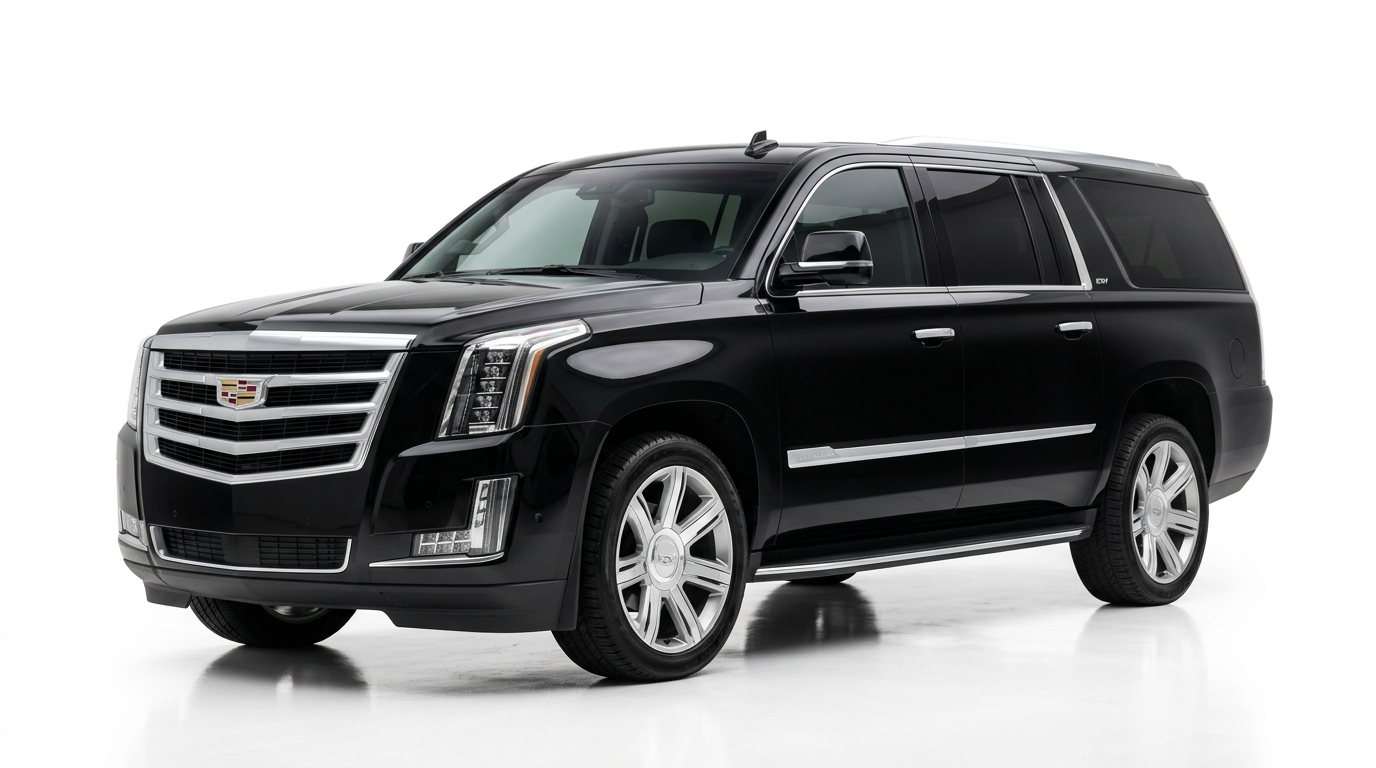
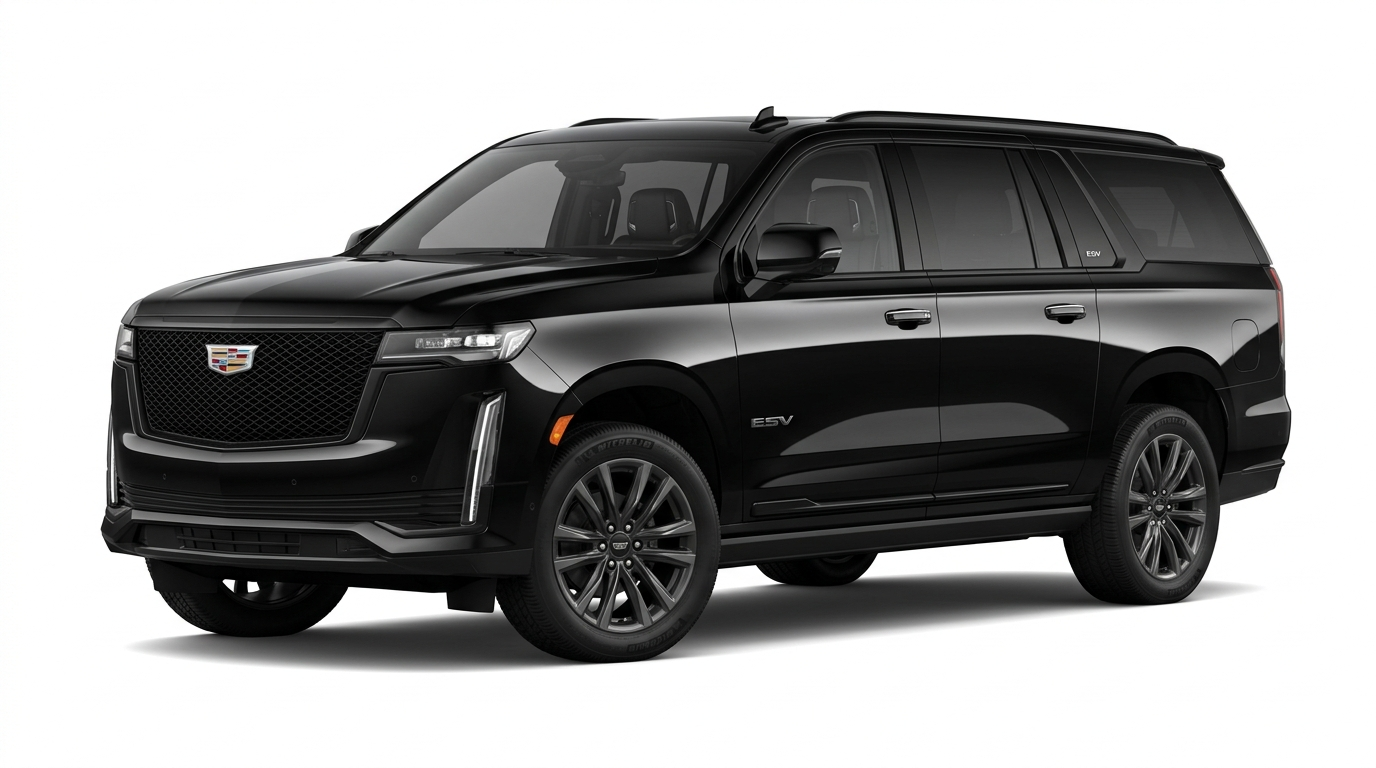
feat(nyclimo): large locked route map, modern Inter typography, and pure white fleet cutouts

diff --git a/public/nyclimowish/js/limo-booking.js b/public/nyclimowish/js/limo-booking.js
@@ -490,6 +490,83 @@
   function renderMap() {
     const box = $('sidebar-map');
     if (!box) return;
+
+    // Check if Google Maps JS API is loaded
+    if (window.google && window.google.maps) {
+      try {
+        box.innerHTML = '';
+        const map = new google.maps.Map(box, {
+          center: { lat: 40.7128, lng: -74.0060 },
+          zoom: 12,
+          disableDefaultUI: true,
+          gestureHandling: 'none',
+          mapTypeControl: false,
+          fullscreenControl: false,
+          streetViewControl: false,
+          zoomControl: false,
+          styles: [
+            { featureType: 'poi', stylers: [{ visibility: 'off' }] },
+            { featureType: 'transit', stylers: [{ visibility: 'off' }] },
+            { featureType: 'road', elementType: 'geometry', stylers: [{ lightness: 15 }] }
+          ]
+        });
+
+        const origin = state.pickup;
+        const destination = (state.serviceType === 'hourly' && (!state.dropoff || state.dropoff === state.pickup))
+          ? null
+          : state.dropoff;
+
+        if (origin && destination) {
+          const directionsService = new google.maps.DirectionsService();
+          const directionsRenderer = new google.maps.DirectionsRenderer({
+            map,
+            suppressMarkers: false,
+            polylineOptions: {
+              strokeColor: '#c9a227',
+              strokeWeight: 5,
+              strokeOpacity: 0.95
+            }
+          });
+          const waypoints = (state.stops || []).map((s) => ({ location: s, stopover: true }));
+          directionsService.route({
+            origin,
+            destination,
+            waypoints,
+            travelMode: google.maps.TravelMode.DRIVING
+          }, (res, status) => {
+            if (status === google.maps.DirectionsStatus.OK) {
+              directionsRenderer.setDirections(res);
+            } else {
+              fallbackEmbed(box);
+            }
+          });
+          return;
+        } else if (origin) {
+          const geocoder = new google.maps.Geocoder();
+          geocoder.geocode({ address: origin }, (results, status) => {
+            if (status === 'OK' && results && results[0]) {
+              map.setCenter(results[0].geometry.location);
+              map.setZoom(14);
+              new google.maps.Marker({
+                map,
+                position: results[0].geometry.location,
+                title: origin
+              });
+            } else {
+              fallbackEmbed(box);
+            }
+          });
+          return;
+        }
+      } catch (err) {
+        console.warn('[MAPS JS API]:', err);
+      }
+    }
+
+    fallbackEmbed(box);
+  }
+
+  function fallbackEmbed(box) {
     box.innerHTML = '';
     if (!state.mapUrl) {
       box.innerHTML = `<div class="limo-map-placeholder">
@@ -503,6 +580,7 @@
     frame.loading = 'lazy';
     frame.referrerPolicy = 'origin';
     frame.src = state.mapUrl;
+    frame.style.pointerEvents = 'none';
     box.appendChild(frame);
   }
 
@@ -562,21 +640,23 @@
       if ($('sb-meta-time')) $('sb-meta-time').textContent = state.pickupTime || '—';
     }
 
-    // Distance and Duration under map
-    if (state.serviceType === 'hourly') {
-      if ($('sb-duration')) $('sb-duration').textContent = `${state.hours} hours duration`;
-      if ($('sb-duration-wrap')) $('sb-duration-wrap').style.display = 'flex';
-      if ($('stat-miles')) $('stat-miles').textContent = `${state.hours} hours`;
-      if ($('stat-duration')) $('stat-duration').textContent = 'Hourly Charter';
-    } else {
-      const hours = Math.floor(state.durationMins / 60);
-      const mins = state.durationMins % 60;
-      const durationStr = hours > 0 ? `${hours} hour ${mins} min` : `${mins} min`;
-      if ($('sb-duration')) $('sb-duration').textContent = `${durationStr} estimated`;
-      if ($('sb-duration-wrap')) $('sb-duration-wrap').style.display = 'flex';
-      if ($('stat-miles')) $('stat-miles').textContent = `${state.miles} mi`;
-      if ($('stat-duration')) $('stat-duration').textContent = durationStr;
+    // Distance and Duration under map (Prestige Ride style)
+    const hours = Math.floor(state.durationMins / 60);
+    const mins = state.durationMins % 60;
+    let durationStr = '0 hour 0 min';
+    if (state.durationMins > 0) {
+      durationStr = hours > 0 ? `${hours} hour ${mins} min` : `${mins} min`;
     }
+    const milesStr = (state.miles && state.miles > 0) ? `${state.miles} mi` : '0.0 mi';
+
+    if ($('stat-miles')) $('stat-miles').textContent = milesStr;
+    if ($('stat-duration')) $('stat-duration').textContent = durationStr;
+    if ($('sb-duration')) {
+      $('sb-duration').textContent = state.serviceType === 'hourly'
+        ? `${state.hours} hours charter`
+        : durationStr;
+    }
+    if ($('sb-duration-wrap')) $('sb-duration-wrap').style.display = 'flex';
   }
 
   function getVehicleBadge(q) {

diff --git a/public/nyclimowish/css/limo.css b/public/nyclimowish/css/limo.css
@@ -24,17 +24,22 @@
 
 *, *::before, *::after { box-sizing: border-box; margin: 0; padding: 0; }
 
+html, body, body.limo, body.limo-light, input, button, select, textarea {
+  font-family: 'Inter', -apple-system, BlinkMacSystemFont, 'Segoe UI', Roboto, Helvetica, Arial, sans-serif !important;
+  -webkit-font-smoothing: antialiased;
+  -moz-osx-font-smoothing: grayscale;
+}
+
 body.limo {
-  font-family: var(--font-sans);
   background: var(--limo-black);
   color: var(--limo-white);
   line-height: 1.6;
-  -webkit-font-smoothing: antialiased;
 }
 
 body.limo-light {
-  background: #f5f5f5;
-  color: var(--limo-black);
+  background: #f1f5f9;
+  color: #0f172a;
+  line-height: 1.6;
 }
 
 a { color: var(--limo-gold); text-decoration: none; transition: color var(--transition); }
@@ -609,7 +614,7 @@ html.limo-preloading-step2 #step-2 {
 }
 .limo-sidebar-map {
   width: 100%;
-  height: 220px;
+  height: 290px;
   background: #f8fafc;
   border-radius: 12px;
   overflow: hidden;
@@ -624,6 +629,7 @@ html.limo-preloading-step2 #step-2 {
   width: 100%;
   height: 100%;
   border: 0;
+  pointer-events: none;
 }
 .limo-map-placeholder {
   display: flex;
@@ -867,13 +873,13 @@ html.limo-preloading-step2 #step-2 {
   border-radius: 16px;
   padding: 22px 26px;
   display: grid;
-  grid-template-columns: 210px 1fr 140px;
-  gap: 24px;
+  grid-template-columns: 260px 1fr 140px;
+  gap: 28px;
   align-items: center;
 }
 .limo-skeleton-img {
   width: 100%;
-  height: 110px;
+  height: 140px;
   background: linear-gradient(90deg, #f1f5f9 25%, #e2e8f0 50%, #f1f5f9 75%);
   background-size: 200% 100%;
   border-radius: 10px;
@@ -931,10 +937,10 @@ html.limo-preloading-step2 #step-2 {
   background: #ffffff;
   border: 1.5px solid #e5e7eb;
   border-radius: 16px;
-  padding: 22px 26px;
+  padding: 24px 28px;
   display: grid;
-  grid-template-columns: 210px 1fr auto;
-  gap: 24px;
+  grid-template-columns: 260px 1fr auto;
+  gap: 28px;
   align-items: center;
   position: relative;
   cursor: pointer;
@@ -973,8 +979,8 @@ html.limo-preloading-step2 #step-2 {
 
 /* Vehicle image on white background */
 .limo-vehicle-photo-wrap {
-  width: 210px;
-  height: 115px;
+  width: 260px;
+  height: 145px;
   display: flex;
   align-items: center;
   justify-content: center;
@@ -986,7 +992,8 @@ html.limo-preloading-step2 #step-2 {
   max-width: 100%;
   max-height: 100%;
   object-fit: contain;
-  filter: drop-shadow(0 6px 12px rgba(0,0,0,0.12));
+  mix-blend-mode: multiply;
+  filter: contrast(1.03) brightness(1.02);
   transition: transform 0.25s ease;
 }
 .limo-vehicle-card:hover .limo-vehicle-photo {

diff --git a/public/nyclimowish/book.html b/public/nyclimowish/book.html
@@ -26,7 +26,11 @@
   <link rel="icon" href="/nyclimowish/favicon.ico" sizes="32x32">
   <link rel="icon" href="/nyclimowish/favicon.svg" type="image/svg+xml">
   <link rel="apple-touch-icon" href="/nyclimowish/apple-touch-icon.png">
+  <link rel="preconnect" href="https://fonts.googleapis.com">
+  <link rel="preconnect" href="https://fonts.gstatic.com" crossorigin>
+  <link href="https://fonts.googleapis.com/css2?family=Inter:wght@400;500;600;700;800;900&display=swap" rel="stylesheet">
   <link rel="stylesheet" href="/css/limo.css">
+  <script src="https://maps.googleapis.com/maps/api/js?key=AIzaSyDTSp230ry9anG12MF6ERAS-G8WBF45GWM&libraries=places" async defer></script>
   <script>
     (function () {
       try {
